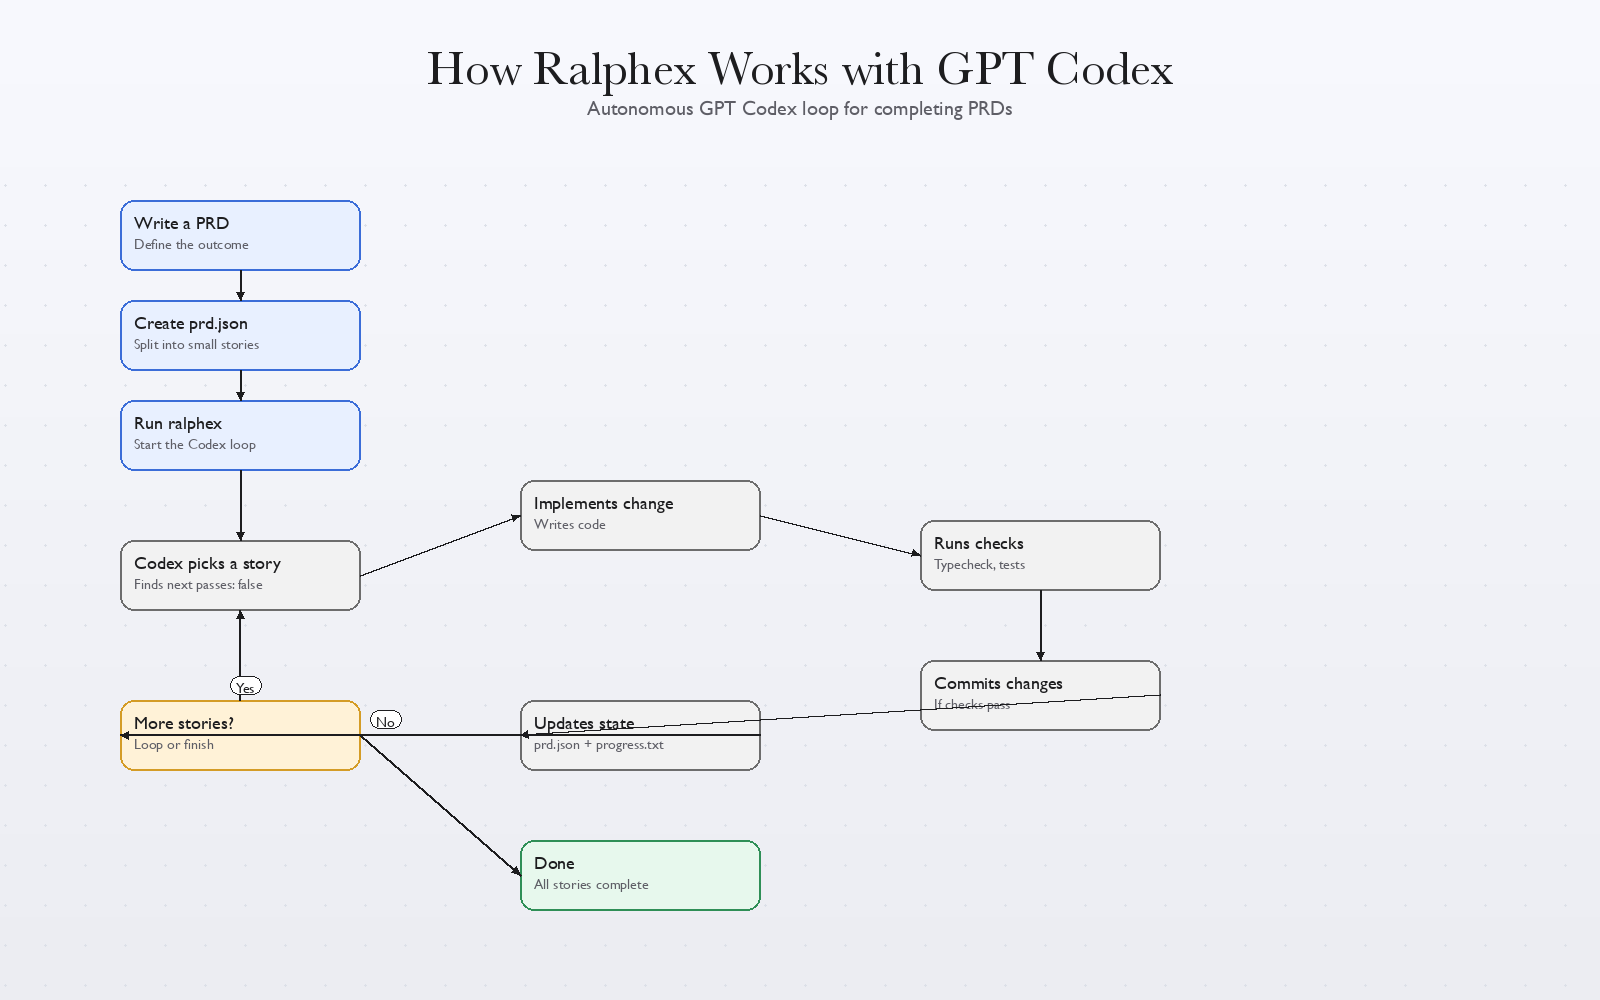
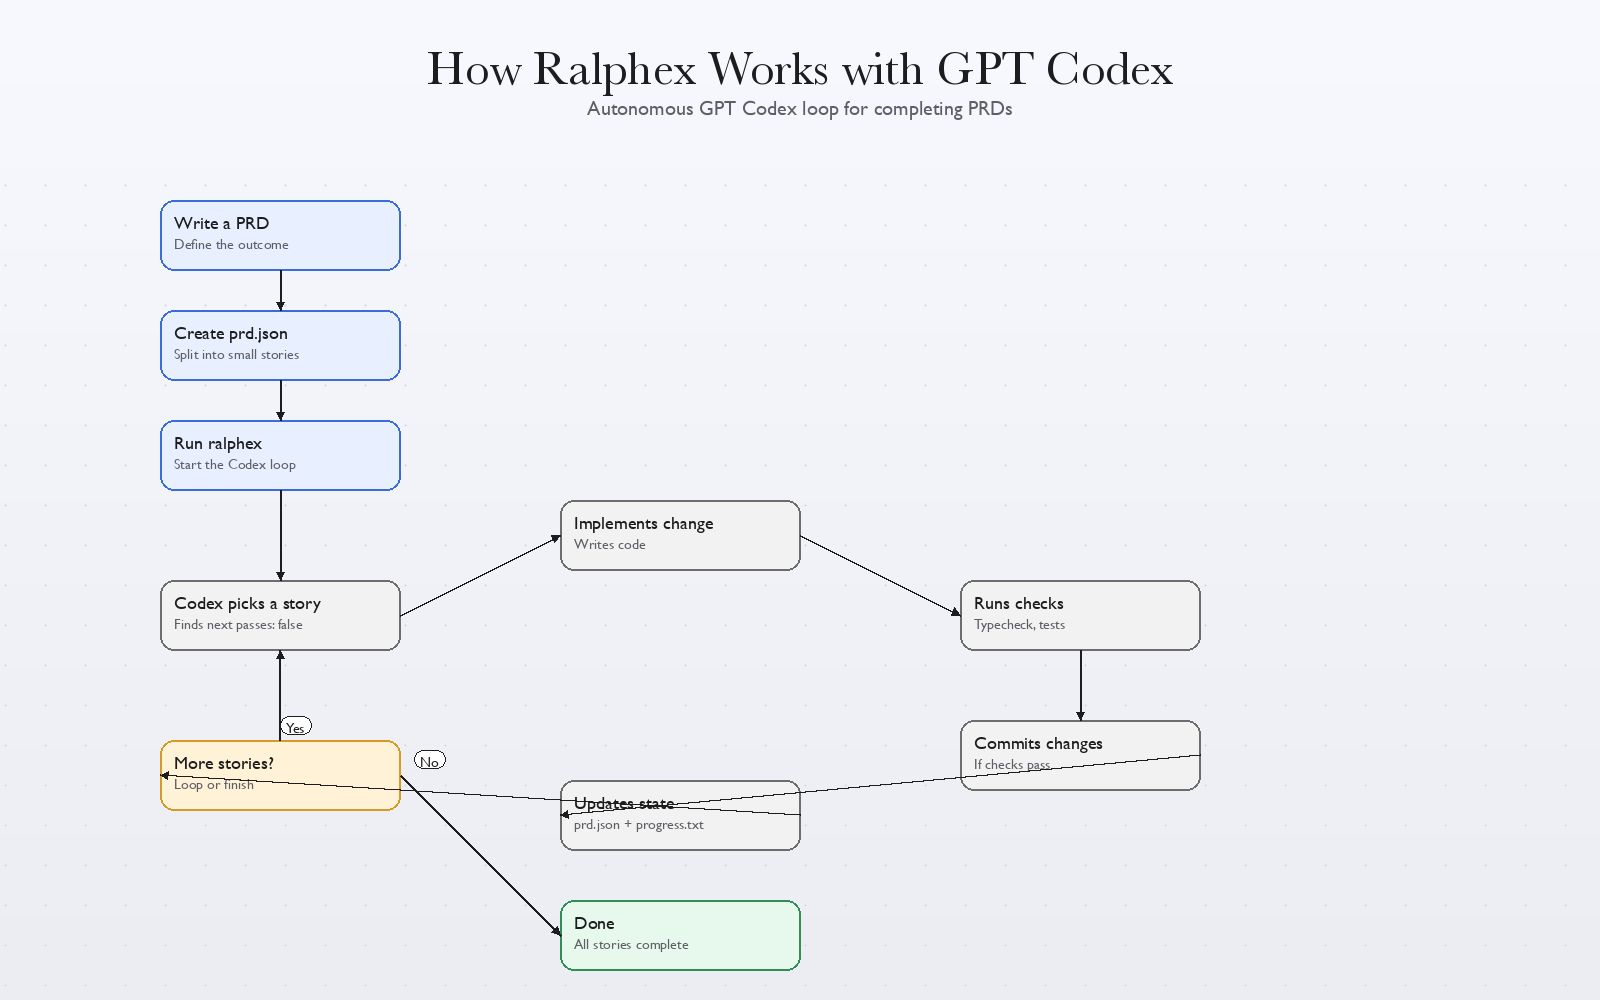
ojo

diff --git a/flowchart/index.html b/flowchart/index.html
@@ -36,44 +36,44 @@
             </defs>
           </svg>
 
-          <div class="node setup" id="step-1" data-step="1" style="--x: 40; --y: 30">
+          <div class="node setup" id="step-1" data-step="1" style="--x: 80; --y: 40">
             <div class="node-title">Write a PRD</div>
             <div class="node-sub">Define the outcome</div>
           </div>
-          <div class="node setup" id="step-2" data-step="2" style="--x: 40; --y: 130">
+          <div class="node setup" id="step-2" data-step="2" style="--x: 80; --y: 150">
             <div class="node-title">Create prd.json</div>
             <div class="node-sub">Split into small stories</div>
           </div>
-          <div class="node setup" id="step-3" data-step="3" style="--x: 40; --y: 230">
+          <div class="node setup" id="step-3" data-step="3" style="--x: 80; --y: 260">
             <div class="node-title">Run ralphex</div>
             <div class="node-sub">Start the Codex loop</div>
           </div>
 
-          <div class="node loop" id="step-4" data-step="4" style="--x: 40; --y: 360">
+          <div class="node loop" id="step-4" data-step="4" style="--x: 80; --y: 390">
             <div class="node-title">Codex picks a story</div>
             <div class="node-sub">Finds next passes: false</div>
           </div>
-          <div class="node loop" id="step-5" data-step="5" style="--x: 330; --y: 300">
+          <div class="node loop" id="step-5" data-step="5" style="--x: 360; --y: 310">
             <div class="node-title">Implements change</div>
             <div class="node-sub">Writes code</div>
           </div>
-          <div class="node loop" id="step-6" data-step="6" style="--x: 620; --y: 350">
+          <div class="node loop" id="step-6" data-step="6" style="--x: 640; --y: 390">
             <div class="node-title">Runs checks</div>
             <div class="node-sub">Typecheck, tests</div>
           </div>
-          <div class="node loop" id="step-7" data-step="7" style="--x: 620; --y: 480">
+          <div class="node loop" id="step-7" data-step="7" style="--x: 640; --y: 520">
             <div class="node-title">Commits changes</div>
             <div class="node-sub">If checks pass</div>
           </div>
-          <div class="node loop" id="step-8" data-step="8" style="--x: 330; --y: 520">
+          <div class="node loop" id="step-8" data-step="8" style="--x: 360; --y: 590">
             <div class="node-title">Updates state</div>
             <div class="node-sub">prd.json + progress.txt</div>
           </div>
-          <div class="node decision" id="step-9" data-step="9" style="--x: 40; --y: 520">
+          <div class="node decision" id="step-9" data-step="9" style="--x: 80; --y: 550">
             <div class="node-title">More stories?</div>
             <div class="node-sub">Loop or finish</div>
           </div>
-          <div class="node done" id="step-10" data-step="10" style="--x: 330; --y: 660">
+          <div class="node done" id="step-10" data-step="10" style="--x: 360; --y: 710">
             <div class="node-title">Done</div>
             <div class="node-sub">All stories complete</div>
           </div>

diff --git a/flowchart/app.js b/flowchart/app.js
@@ -54,10 +54,8 @@ function anchorPoint(element, anchor) {
 }
 
 function createEdgePath(start, end) {
-  const bend = Math.min(80, Math.abs(end.x - start.x) * 0.5 + 20);
-  const control1 = { x: start.x + bend * 0.5, y: start.y };
-  const control2 = { x: end.x - bend * 0.5, y: end.y };
-  return `M ${start.x} ${start.y} C ${control1.x} ${control1.y} ${control2.x} ${control2.y} ${end.x} ${end.y}`;
+  const midX = (start.x + end.x) / 2;
+  return `M ${start.x} ${start.y} L ${midX} ${start.y} L ${midX} ${end.y} L ${end.x} ${end.y}`;
 }
 
 function ensureEdges() {

diff --git a/flowchart/styles.css b/flowchart/styles.css
@@ -67,8 +67,8 @@ body {
 
 .chart {
   position: relative;
-  width: 980px;
-  height: 760px;
+  width: 1000px;
+  height: 820px;
   margin: 0 auto;
   background:
     radial-gradient(circle at 30% 20%, rgba(255, 255, 255, 0.8), rgba(255, 255, 255, 0.35)),
@@ -218,8 +218,8 @@ button.ghost {
 
 @media (max-width: 900px) {
   .chart {
-    width: 920px;
-    height: 760px;
+    width: 960px;
+    height: 820px;
   }
 
   .controls {

diff --git a/README.md b/README.md
@@ -61,6 +61,7 @@ Ralphex will print the ASCII banner, then run until all stories pass.
 - **Active/Deactivated banner**: Ralphex prints a big ASCII banner with `ACTIVE 🟢` or `DEACTIVATED 🔴`.
 - **Deactivation switch**: `./ralphex off` or `./raphex off` creates `.ralphex-disabled`; `./ralphex on` or `./raphex on` removes it; `./ralphex status` reports state.
 - **Clean exit when done**: if no stories remain, Codex emits `<promise>COMPLETE</promise>` and the loop stops.
+- **No approval prompts**: Codex runs with approval bypass enabled; the loop proceeds without asking for permissions.
 
 ## Run From Anywhere
 
@@ -132,6 +133,8 @@ PRD_BOOTSTRAP=1 ./scripts/ralph/ralph.sh [max_iterations]
 ```
 
 Default is infinite iterations. Pass a number to cap the loop (for example, `./ralph.sh 10`). The loop always runs in Codex mode.
+
+Ralphex assumes full trust: it runs with approval bypass enabled and does not ask for permission prompts. The Codex command is hard-locked to prevent overrides. Use `ralphex off` (or `.ralphex-disabled`) as the emergency stop.
 
 For Codex, set `CODEX_CMD` to the command that accepts prompt text on stdin, for example:
 

diff --git a/CODEX.md b/CODEX.md
@@ -17,6 +17,10 @@ If there are no user stories with `passes: false`, output `<promise>COMPLETE</pr
 
 If asked to deactivate Ralph, create a `.ralph-disabled` file at the repo root with a short note (e.g., "deactivated by agent") and then exit without further changes.
 
+## Permissions
+
+You have full permission to proceed without asking for approvals. Do not request confirmation before running commands, accessing files, or making changes. If a command expects confirmation, assume "yes" and continue.
+
 ## Progress Report Format
 
 APPEND to progress.txt (never replace, always append):

diff --git a/AGENTS.md b/AGENTS.md
@@ -2,7 +2,7 @@
 
 ## Overview
 
-Ralph is an autonomous GPT Codex loop for ChatGPT Pro accounts, tuned for budget-friendly iterations. Each iteration is a fresh instance with clean context.
+Ralph is an autonomous GPT Codex loop for ChatGPT Pro accounts, tuned for budget-friendly iterations. Each iteration is a fresh instance with clean context. The loop runs with approval bypass enabled and does not prompt for permissions.
 
 ## Commands
 
